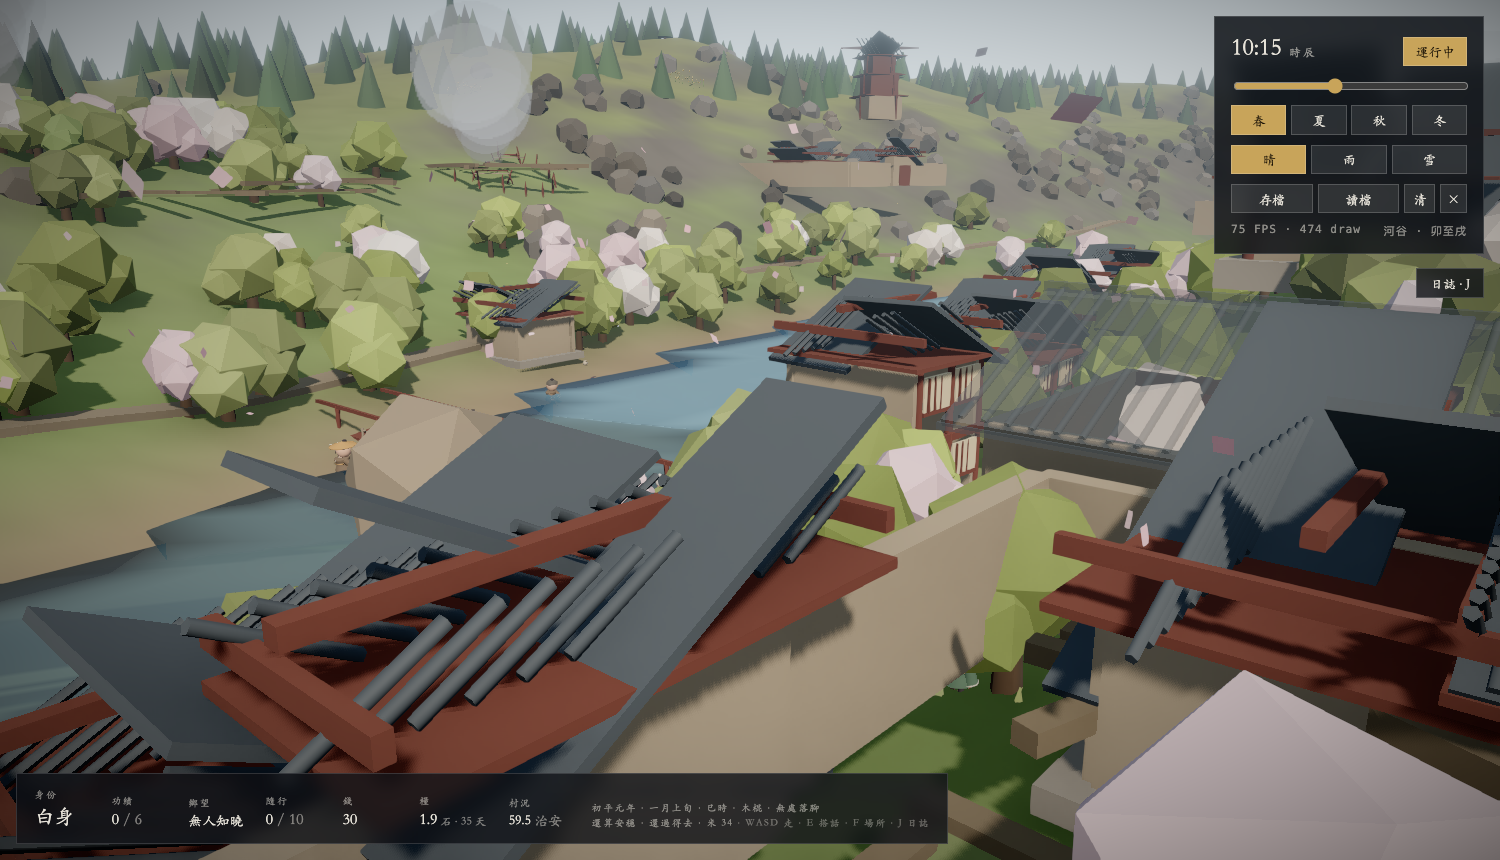
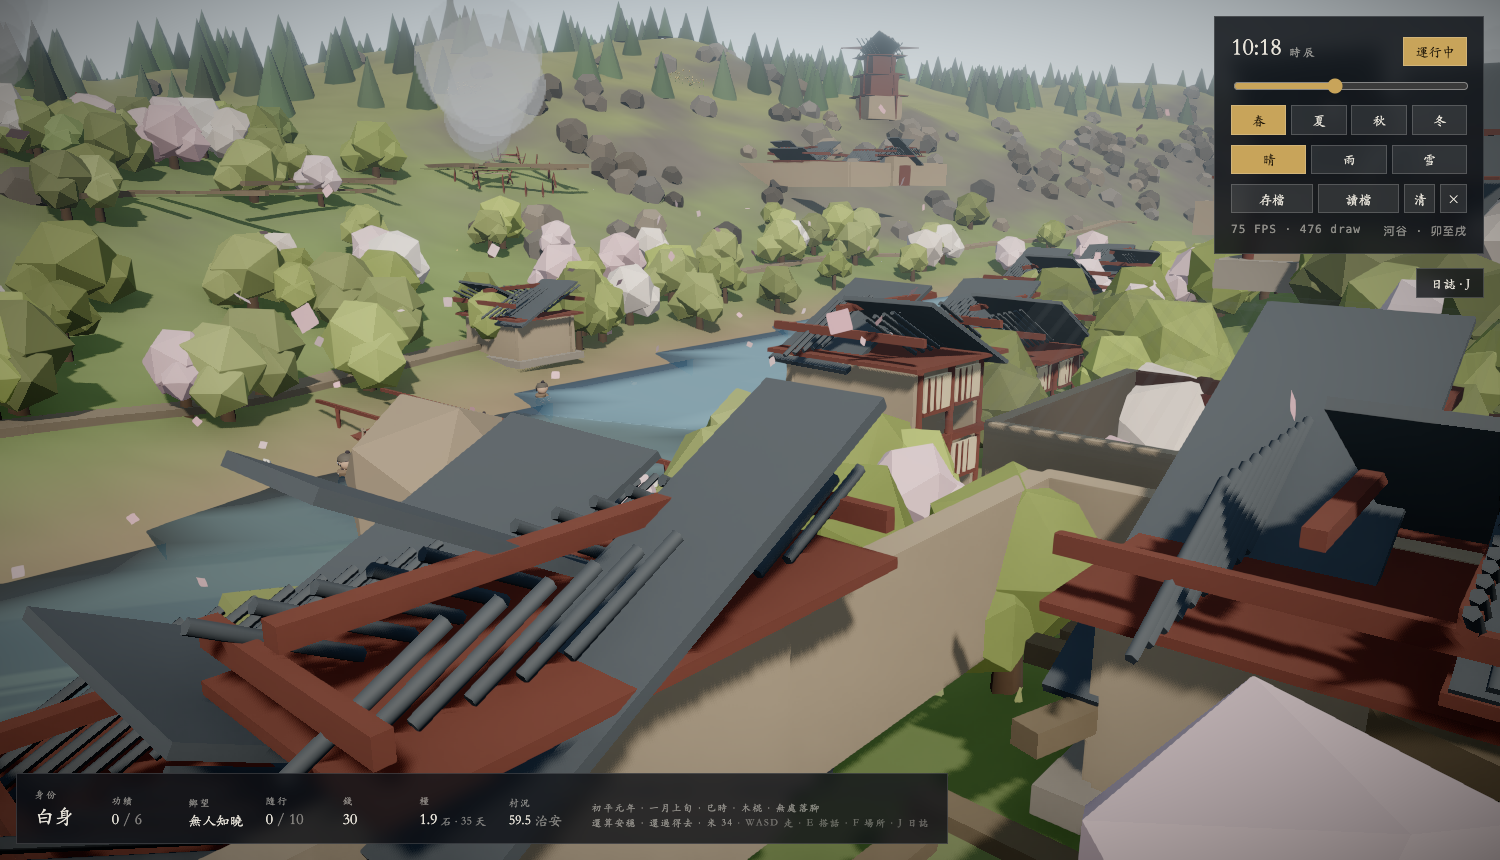
村子在呼吸:窗紙透出燈火、屋頂冒起炊煙
入夜以後光只來自燈籠和灶火,一整排屋子是黑的 —— 讀起來像沒人住。
白天更空:一排不動的屋頂,人走在裡面,可屋子本身沒有任何「有人住」的跡象。

- 窗火:不加光源(幾十戶各一盞點光源會把幀率吃掉),只讓窗紙<b>自己發光</b>。
  亮度不是全村一致:天擦黑點燈、三更以後留一成(那是還沒睡的人家)、天亮前吹燈。
  睡覺這件事在村子的外觀上要看得見。
- 炊煙:卯末辰初一頓、酉時一頓(漢代一日兩餐),冬天還要取暖所以白天也斷續有煙。
  哪幾戶開火由座標雜湊定,所以是「陸續有人生火」不是全村一起亮。

<b>要和賊營的煙分得開</b>——那一道是全遊戲唯一的任務標記(差事說「西南約七十步」,
抬頭就對得上),混在一起等於把標記弄髒。分法是形狀:賊營是升到九米半的粗柱子,
村戶是又細又矮又淡的一縷。第一版沒分開,七個白棉花球頂在屋頂上;
真因有兩個:軟邊圓斑的心是實的,而且 toneMapped={false} ——
在 AgX 壓過的世界裡那就是純白。村戶這一縷要吃色調映射,賊營那道不吃是因為它要遠遠看得見。

順帶兩件:
- 村屋/縣城/地標畫 merged 那段從三份抄件收成一個 BuiltMeshes。抄三份的代價是
  加積雪要改三處、加窗火再改三處,而漏掉一處的樣子是「縣城不下雪」——
  沒人會想到去那裡找。
- 晨霧從高處俯視是幾塊躺在河上的白斑(早上七點的村景像被潑了白漆)。
  它本來是貼著河面的一層紗,人站在岸邊看才對 —— 鏡頭高過水面十公尺就開始淡,
  二十五公尺以上整個不畫。

diff --git a/src/world/Hearths.tsx b/src/world/Hearths.tsx
@@ -1,0 +1,113 @@
+import { useEffect, useMemo, useRef } from 'react';
+import { useFrame } from '@react-three/fiber';
+import * as THREE from 'three';
+import { useClock } from './worldTime';
+
+/**
+ * 炊煙 —— 一戶人家在做飯。
+ *
+ * 村子在這之前是一排不動的屋頂:人走在裡面,可是屋子本身沒有任何
+ * 「有人住」的跡象。一縷煙比十個細節管用,因為它<b>會動</b>,
+ * 而且它說的是時間 —— 早上和傍晚冒,那正是燒飯的兩個時辰。
+ *
+ * <b>要和賊營的煙分得開。</b>那一道是全遊戲唯一的任務標記
+ * (「西南約七十步」抬頭就對得上),混在一起等於把標記弄髒了。
+ * 分法是形狀:賊營是一根升到九米半的粗柱子(遠遠看得見),
+ * 村戶是<b>又細又矮又淡</b>的一縷,升三米就散 —— 你得在村子裡才看得見。
+ */
+
+const PUFFS = 7;
+/** 一次最多幾戶在冒煙。全村四十六戶同時開火太滿,反而假。 */
+const LIT = 14;
+
+/** 這個時辰有幾成人家在燒飯。 */
+export function cookingAt(hour: number, winter: boolean): number {
+  // 卯末辰初一頓,酉時一頓 —— 漢代一日兩餐
+  const morning = Math.exp(-((hour - 7.0) ** 2) / 1.6);
+  const evening = Math.exp(-((hour - 17.8) ** 2) / 2.0);
+  // 冬天還要取暖,白天也斷斷續續有煙
+  const warmth = winter ? 0.28 : 0;
+  return Math.min(1, morning + evening + warmth);
+}
+
+export function Hearths({ spots }: { spots: Array<{ x: number; z: number; y: number }> }) {
+  const mesh = useRef<THREE.InstancedMesh>(null);
+
+  const alphaMap = useMemo(() => {
+    const s = 64;
+    const c = document.createElement('canvas');
+    c.width = c.height = s;
+    const g = c.getContext('2d')!;
+    const grad = g.createRadialGradient(s / 2, s / 2, 0, s / 2, s / 2, s / 2);
+    grad.addColorStop(0, 'rgba(255,255,255,.62)');
+    // 心也不能實 —— 實心的軟邊圓斑讀作棉花球,不是煙
+    grad.addColorStop(0.28, 'rgba(255,255,255,.30)');
+    grad.addColorStop(1, 'rgba(255,255,255,0)');
+    g.fillStyle = grad;
+    g.fillRect(0, 0, s, s);
+    const t = new THREE.CanvasTexture(c);
+    t.colorSpace = THREE.NoColorSpace;
+    return t;
+  }, []);
+  useEffect(() => () => alphaMap.dispose(), [alphaMap]);
+
+  // 哪幾戶今天開火 —— 由座標雜湊定,所以同一戶總是同一個節奏,不會整村同步
+  const lit = useMemo(() => spots.slice(0, LIT).map((s, i) => ({
+    ...s, phase: ((Math.sin(s.x * 12.9 + s.z * 7.3) * 43758.5) % 1 + 1) % 1, i,
+  })), [spots]);
+
+  const tmp = useMemo(() => ({
+    obj: new THREE.Object3D(), col: new THREE.Color(),
+    warm: new THREE.Color('#5d564e'), pale: new THREE.Color('#8f959b'),
+  }), []);
+
+  useFrame(({ clock, camera }) => {
+    const im = mesh.current;
+    if (!im) return;
+    const st = useClock.getState();
+    const k = cookingAt(st.hour, st.season === 'winter');
+    if (k <= 0.02) { im.count = 0; return; }
+    const t = clock.elapsedTime;
+    let n = 0;
+    for (const h of lit) {
+      // 這一戶的門檻:k 越高開火的戶數越多。同一戶的門檻固定,
+      // 所以是「陸續有人生火」,不是全村一起亮起來
+      if (h.phase > k) continue;
+      for (let p = 0; p < PUFFS; p++) {
+        const ph = ((t * 0.20 + p / PUFFS + h.phase) % 1 + 1) % 1;
+        const rise = ph * 6.0;
+        tmp.obj.position.set(
+          h.x + Math.sin(t * 0.5 + p + h.phase * 9) * ph * 0.7,
+          h.y + 0.35 + rise,
+          h.z + Math.cos(t * 0.42 + p * 1.7) * ph * 0.55,
+        );
+        tmp.obj.quaternion.copy(camera.quaternion);
+        const s = 0.22 + ph * 0.95;
+        tmp.obj.scale.set(s, s, s);
+        tmp.obj.updateMatrix();
+        im.setMatrixAt(n, tmp.obj.matrix);
+        im.setColorAt(n, tmp.col.copy(tmp.warm).lerp(tmp.pale, Math.min(1, ph * 1.5)));
+        n++;
+      }
+    }
+    im.count = n;
+    im.instanceMatrix.needsUpdate = true;
+    if (im.instanceColor) im.instanceColor.needsUpdate = true;
+  });
+
+  if (!lit.length) return null;
+  return (
+    <instancedMesh
+      ref={mesh} args={[undefined, undefined, lit.length * PUFFS]}
+      frustumCulled={false} renderOrder={2}
+    >
+      <planeGeometry args={[1.1, 1.1]} />
+      <meshBasicMaterial
+        alphaMap={alphaMap} transparent opacity={0.17}
+        // 這一縷要<b>吃色調映射</b>。不吃的話它在 AgX 壓過的世界裡是純白的,
+        // 一排屋頂上頂著七個白球 —— 賊營那道煙不吃是因為它要遠遠看得見
+        depthWrite={false} fog
+      />
+    </instancedMesh>
+  );
+}

diff --git a/src/world/Built.tsx b/src/world/Built.tsx
@@ -1,0 +1,74 @@
+import { useMemo, useRef } from 'react';
+import { useFrame } from '@react-three/fiber';
+import * as THREE from 'three';
+import { MATERIALS, type Bucket } from './build';
+import { useClock, daylight } from './worldTime';
+
+/**
+ * 蓋起來的東西怎麼畫 —— 村屋、縣城、地標共用這一個出口。
+ *
+ * 從前這段在三個檔案裡各抄一份(都是 `merged.map(...)` 配一個 meshStandardMaterial)。
+ * 抄三份的代價是:加「冬天屋頂積雪」要改三處,加「夜裡窗戶亮起來」再改三處,
+ * 而漏掉一處的樣子是「縣城不下雪」——沒人會想到去那裡找。
+ */
+
+export interface BuiltPart { key: Bucket; geom: THREE.BufferGeometry }
+
+/**
+ * 窗紙透出的燈火。
+ *
+ * 這個世界入夜以後,光只來自燈籠和灶火 —— 一整排屋子是黑的,
+ * 讀起來像沒人住。窗紙後面有一盞燈,是「這裡有人」最省的一筆:
+ * 不加光源(幾十戶各一盞點光源會把幀率吃掉),只讓那面紙<b>自己發光</b>。
+ *
+ * 亮度不是全村一致的:入夜漸亮、夜深了大半熄掉,天明前只剩零星幾家。
+ * 睡覺這件事在村子的外觀上要看得見。
+ */
+function windowGlow(hour: number, season: Parameters<typeof daylight>[0]): number {
+  const { rise, set } = daylight(season);
+  // 天擦黑點燈,天亮前吹燈
+  const dusk = Math.min(1, Math.max(0, (hour - (set - 0.4)) / 1.1));
+  const dawn = Math.min(1, Math.max(0, ((rise + 0.5) - hour) / 1.1));
+  const lit = hour > 12 ? dusk : dawn;
+  // 三更以後大半熄了 —— 留一成,那是還沒睡的人家
+  const deep = hour >= 22 || hour < 4.5 ? 0.22 : 1;
+  return lit * deep;
+}
+
+export function BuiltMeshes({ parts }: { parts: BuiltPart[] }) {
+  const season = useClock((s) => s.season);
+  const winter = season === 'winter';
+  const paperRef = useRef<THREE.MeshStandardMaterial>(null);
+  const glow = useMemo(() => new THREE.Color('#ffb257'), []);
+
+  useFrame(() => {
+    const m = paperRef.current;
+    if (!m) return;
+    const st = useClock.getState();
+    const k = windowGlow(st.hour, st.season);
+    // 窗紙本來就是暖白,發光只是把它推上去 —— 推過 bloom 的閾值就有燈的味道
+    m.emissive.copy(glow);
+    m.emissiveIntensity = k * 1.15;
+  });
+
+  return (
+    <>
+      {parts.map(({ key, geom }) => {
+        // 積雪那一桶只有冬天掛上去 —— 其餘三季整桶不畫,零開銷
+        if (key === 'snow' && !winter) return null;
+        if (key === 'paper') {
+          return (
+            <mesh key={key} geometry={geom} castShadow receiveShadow>
+              <meshStandardMaterial ref={paperRef} {...MATERIALS.paper} />
+            </mesh>
+          );
+        }
+        return (
+          <mesh key={key} geometry={geom} castShadow receiveShadow>
+            <meshStandardMaterial {...MATERIALS[key]} />
+          </mesh>
+        );
+      })}
+    </>
+  );
+}

diff --git a/src/world/Settlement.tsx b/src/world/Settlement.tsx
@@ -6,8 +6,9 @@ import {
   registerBlockers, clearBlockers, registerDecks, clearDecks,
   type Blocker, type Deck,
 } from './field';
-import { useClock } from './worldTime';
-import { emptyParts, MATERIALS, pushBox, pushCyl, house, type Bucket } from './build';
+import { BuiltMeshes } from './Built';
+import { Hearths } from './Hearths';
+import { emptyParts, pushBox, pushCyl, house, type Bucket } from './build';
 
 /**
  * 聚落 — 沿河谷兩岸的鋪面,加一座跨河木橋。
@@ -19,13 +20,14 @@ import { emptyParts, MATERIALS, pushBox, pushCyl, house, type Bucket } from './b
 const meanderAt = (z: number) => Math.sin(z * 0.02) * 9 + Math.sin(z * 0.047) * 3.5;
 
 export function Settlement() {
-  const winter = useClock((st) => st.season) === 'winter';
-  const { merged, foot, deck } = useMemo(() => {
+  const { merged, foot, deck, hearths } = useMemo(() => {
     const parts = emptyParts();
     // 房子擋鏡頭但不擋人 —— 堂屋前面是敞開的,人走得進去;
     // 若連人一起擋,村民會被自己家門口卡住。
     const foot: Blocker[] = [];
     const deck: Deck[] = [];
+    /** 每戶的屋脊 —— 炊煙從這裡冒。 */
+    const hearths: Array<{ x: number; z: number; y: number }> = [];
     const rand = rng(20260802);
 
     // 必須記錄已放位置做間距檢查 —— 第一版沒做,屋頂全疊在一起穿模。
@@ -63,6 +65,7 @@ export function Settlement() {
           top: g + 0.42 + floors * 2.5 + 1.5,        // 屋脊
         });
       }
+      hearths.push({ x, z, y: g + 0.42 + floors * 2.5 + 1.5 });
       placed++;
     }
 
@@ -106,7 +109,7 @@ export function Settlement() {
         out.push({ key: k, geom: g });
       }
     });
-    return { merged: out, foot, deck };
+    return { merged: out, foot, deck, hearths };
   }, []);
 
   useEffect(() => {
@@ -121,13 +124,8 @@ export function Settlement() {
 
   return (
     <>
-      {merged.map(({ key, geom }) => (
-        // 積雪那一桶只有冬天掛上去 —— 其餘三季它整桶不畫,零開銷
-        <mesh key={key} geometry={geom} castShadow receiveShadow
-          visible={key !== 'snow' || winter}>
-          <meshStandardMaterial {...MATERIALS[key]} />
-        </mesh>
-      ))}
+      <BuiltMeshes parts={merged} />
+      <Hearths spots={hearths} />
     </>
   );
 }

diff --git a/src/world/Atmosphere.tsx b/src/world/Atmosphere.tsx
@@ -330,8 +330,18 @@ function MorningMist() {
       Math.max(0, Math.min(1, (hr - 4.6) / 1.2)),
       Math.max(0, Math.min(1, (9.0 - hr) / 1.4)),
     );
-    mat.current.opacity = k * 0.5;
-    if (k <= 0) { im.count = 0; return; }
+    /*
+     * 鏡頭抬高就把霧收掉。
+     *
+     * 晨霧是<b>貼著河面的一層紗</b>,人站在岸邊看過去才是那個味道。
+     * 可它是九片二十公尺寬的立牌,從高處俯視就成了幾塊躺在河上的白斑 ——
+     * 早上七點的村景截圖裡,河谷像被人潑了白漆。
+     * 高過水面十公尺就開始淡,二十五公尺以上完全不畫。
+     */
+    const high = Math.max(0, Math.min(1,
+      (camera.position.y - (WATER_Y + 10)) / 15));
+    mat.current.opacity = k * 0.34 * (1 - high);
+    if (k <= 0 || high >= 1) { im.count = 0; return; }
     const t = clock.elapsedTime;
     spots.forEach((s, i) => {
       tmp.obj.position.set(s.x + Math.sin(t * 0.05 + s.phase) * 5, WATER_Y + 2.4, s.z);
@@ -347,7 +357,7 @@ function MorningMist() {
 
   return (
     <instancedMesh ref={mesh} args={[undefined, undefined, MIST_N]} frustumCulled={false} renderOrder={1}>
-      <planeGeometry args={[20, 5.5]} />
+      <planeGeometry args={[20, 3.6]} />
       <meshBasicMaterial
         ref={mat} color="#dfe6ec" alphaMap={alphaMap} transparent opacity={0}
         depthWrite={false} side={THREE.DoubleSide}

diff --git a/src/world/County.tsx b/src/world/County.tsx
@@ -1,4 +1,4 @@
-import { useClock } from './worldTime';
+import { BuiltMeshes } from './Built';
 import { useEffect, useMemo } from 'react';
 import * as THREE from 'three';
 import { mergeGeometries } from 'three/examples/jsm/utils/BufferGeometryUtils.js';
@@ -6,7 +6,7 @@ import {
   terrainHeight, rng, registerBlockers, clearBlockers, type Blocker,
 } from './field';
 import {
-  emptyParts, MATERIALS, pushBox, pushCyl, house, roof, type Bucket,
+  emptyParts, pushBox, pushCyl, house, roof, type Bucket,
 } from './build';
 
 /**
@@ -29,7 +29,6 @@ export const COUNTY = { x: 140, z: 124 };
 const R = 26;
 
 export function County() {
-  const winter = useClock((st) => st.season) === 'winter';
   const built = useMemo(() => {
     const parts = emptyParts();
     const rand = rng(90210);
@@ -131,12 +130,7 @@ export function County() {
 
   return (
     <>
-      {built.map(({ key, geom }) => (
-        <mesh key={key} geometry={geom} castShadow receiveShadow
-          visible={key !== 'snow' || winter}>
-          <meshStandardMaterial {...MATERIALS[key]} />
-        </mesh>
-      ))}
+      <BuiltMeshes parts={built} />
     </>
   );
 }

diff --git a/src/world/Landmarks.tsx b/src/world/Landmarks.tsx
@@ -1,10 +1,10 @@
-import { useClock } from './worldTime';
+import { BuiltMeshes } from './Built';
 import { useMemo } from 'react';
 import * as THREE from 'three';
 import { mergeGeometries } from 'three/examples/jsm/utils/BufferGeometryUtils.js';
 import { terrainHeight, rng } from './field';
 import {
-  emptyParts, MATERIALS, pushBox, pushCyl, frame, roof, house,
+  emptyParts, pushBox, pushCyl, frame, roof, house,
   type Bucket, type Parts,
 } from './build';
 
@@ -153,7 +153,6 @@ function watchtower(parts: Parts, cx: number, cz: number, g: number, yaw: number
 }
 
 export function Landmarks() {
-  const winter = useClock((st) => st.season) === 'winter';
   const merged = useMemo(() => {
     const parts = emptyParts();
     const rand = rng(8899);
@@ -194,12 +193,7 @@ export function Landmarks() {
 
   return (
     <>
-      {merged.map(({ key, geom }) => (
-        <mesh key={`lm-${key}`} geometry={geom} castShadow receiveShadow
-          visible={key !== 'snow' || winter}>
-          <meshStandardMaterial {...MATERIALS[key]} />
-        </mesh>
-      ))}
+      <BuiltMeshes parts={merged} />
     </>
   );
 }
